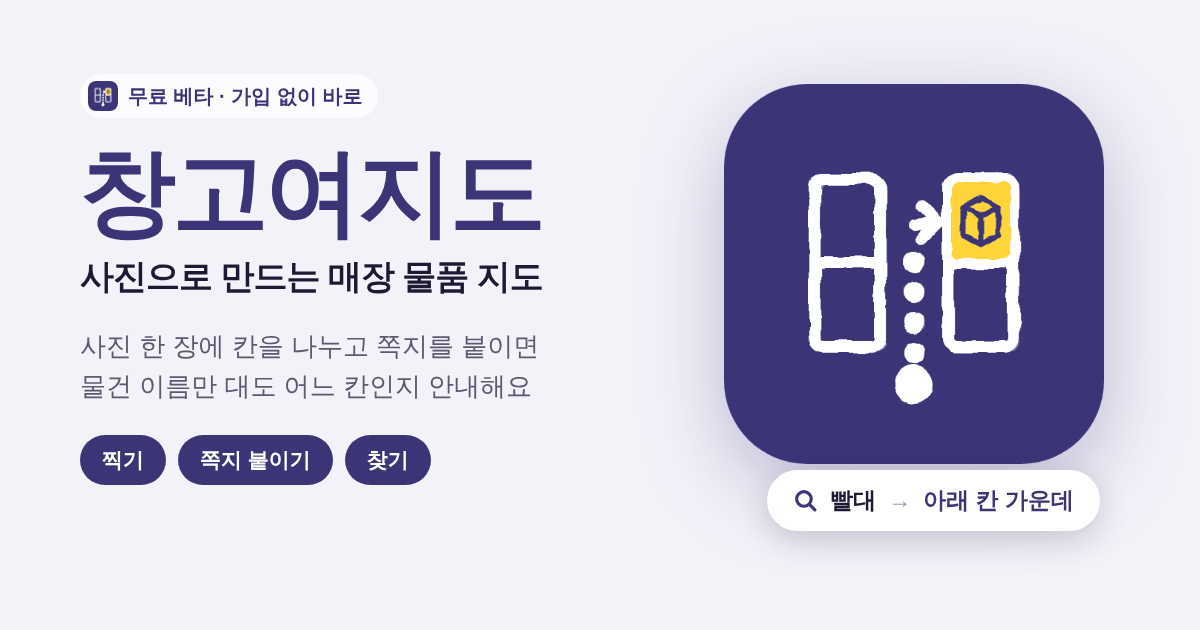
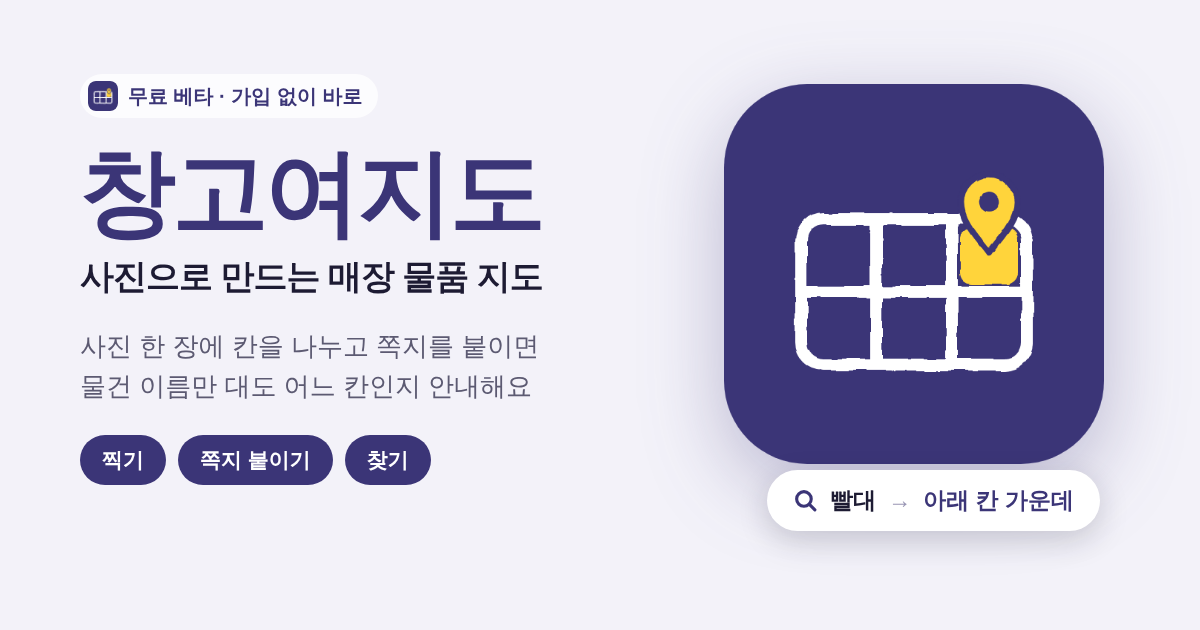
앱 아이콘: 손그림 둥근 수납장 칸 + 노란 칸에 핀
Claude-Session: https://claude.ai/code/session_01YLzJYaCSw3RBoKxVptiud9

Changed region(s): [[0.6475, 0.2714, 0.8633, 0.6635], [0.0617, 0.1206, 0.0925, 0.181]]

diff --git a/index.html b/index.html
@@ -5,8 +5,8 @@
     <meta name="viewport" content="width=device-width, initial-scale=1.0">
     <meta name="theme-color" content="#ffffff">
     <link rel="manifest" href="manifest.webmanifest">
-    <link rel="apple-touch-icon" href="apple-touch-icon.png?v=10">
-    <link rel="icon" type="image/png" sizes="192x192" href="icon-192.png?v=10">
+    <link rel="apple-touch-icon" href="apple-touch-icon.png?v=11">
+    <link rel="icon" type="image/png" sizes="192x192" href="icon-192.png?v=11">
     <meta name="mobile-web-app-capable" content="yes">
     <meta name="apple-mobile-web-app-capable" content="yes">
     <meta name="apple-mobile-web-app-title" content="창고여지도">
@@ -44,10 +44,10 @@
     <meta property="og:title" content="창고여지도 - 사진으로 만드는 매장 물품 지도">
     <meta property="og:description" content="선반 사진을 구역으로 나누고 물건을 적으면, 검색 한 번으로 위치를 찾아요.">
     <meta property="og:url" content="https://trafficjourney.github.io/udigo/">
-    <meta property="og:image" content="https://trafficjourney.github.io/udigo/og-image.png?v=17">
+    <meta property="og:image" content="https://trafficjourney.github.io/udigo/og-image.png?v=18">
     <meta property="og:image:width" content="1200">
     <meta property="og:image:height" content="630">
-    <meta property="og:image:alt" content="창고여지도: 사진으로 만드는 매장 물품 지도. 남색 바탕에 손으로 그린 선반 통로를 따라 노란 칸의 상자로 가는 길이 그려진 앱 아이콘, 아래에 '빨대 → 아래 칸 가운데' 검색 결과">
+    <meta property="og:image:alt" content="창고여지도: 사진으로 만드는 매장 물품 지도. 남색 바탕에 손으로 그린 둥근 수납장 칸 중 한 칸이 노랗게 칠해지고 노란 핀이 꽂힌 앱 아이콘, 아래에 '빨대 → 아래 칸 가운데' 검색 결과">
     <meta property="og:locale" content="ko_KR">
     <meta name="twitter:card" content="summary_large_image">
     <style>
